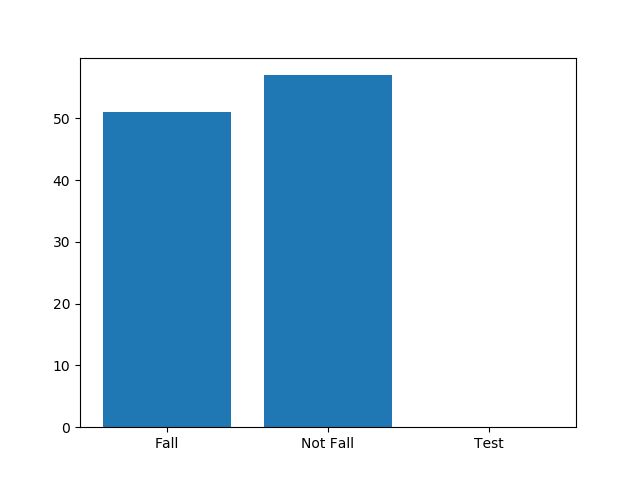
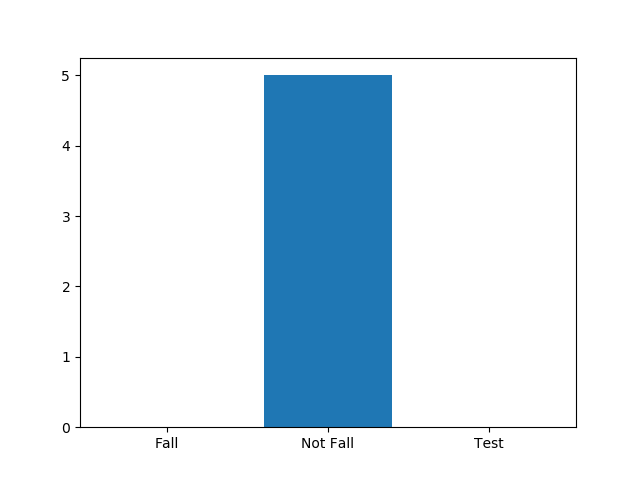
added some twilio code

diff --git a/docker_images/tennison_tsm_in_docker/dev_files/custom_demo/main_stage2.py b/docker_images/tennison_tsm_in_docker/dev_files/custom_demo/main_stage2.py
@@ -14,6 +14,8 @@ import cv2
 import time
 
 from matplotlib import pyplot as plt
+from twilio.rest import Client
+
 
 
 class GroupScale(object):
@@ -295,6 +297,7 @@ def main(num_classes):
     history_timing = []
     i_frame = -1
     tracker = {c:0 for c in catigories}
+    history_for_alerts = []
 
     while True:
         
@@ -350,7 +353,16 @@ def main(num_classes):
             
             current_time = t2 - t1
    
+        # This is to send alerts
+        if len(history_for_alerts) > 25:
+            history_for_alerts.pop(0)
 
+        history_for_alerts.append(catigories[idx])
+
+        if history_for_alerts.count("Fall") > int(0.95*25):
+            return True
+
+        # This is to show the camera image and prediction
         img = cv2.resize(img, (640, 480))
         img = img[:, ::-1]
         height, width, _ = img.shape
@@ -361,6 +373,7 @@ def main(num_classes):
 
         img = np.concatenate((img, label), axis=0)
 
+        # This is to also how the graph to track the labels
         if track_labels:
             tracker[catigories[idx]] += 1
 
@@ -413,10 +426,26 @@ if __name__ == "__main__":
     HISTORY_LOGIT = False
     REFINE_OUTPUT = False
     WINDOW_NAME = "GESTURE CAPTURE"
-    track_labels = True
+    track_labels = False
 
 
     #Modify number of classes here
-    main(3)
+    alert = main(3)
+
+    # Your Account Sid and Auth Token from twilio.com/console
+    # DANGER! This is insecure. See http://twil.io/secure
+    if alert:
+        account_sid = 'ACdbfaa05b13c92b8c951ab45088604ad3'
+        auth_token = 'ask_tyu0912'
+        client = Client(account_sid, auth_token)
+
+        message = client.messages.create(
+             body='It seems you have fallen. Emergency professionals are on their way',
+            from_='+12510118300',
+            to='+12483858969'
+        )
+
+        print(message.sid)
+
 
     print("Done")
